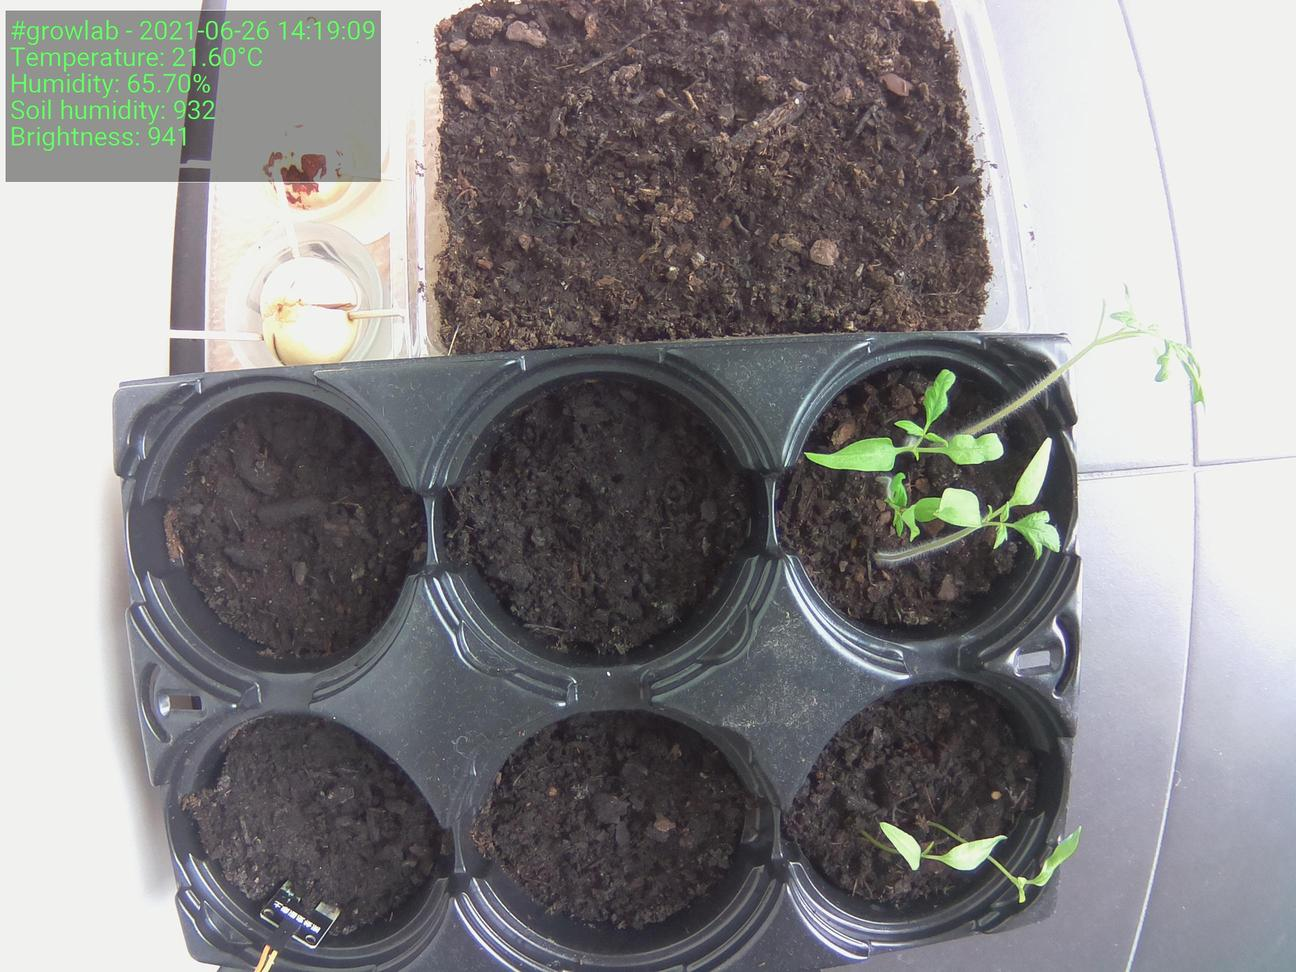
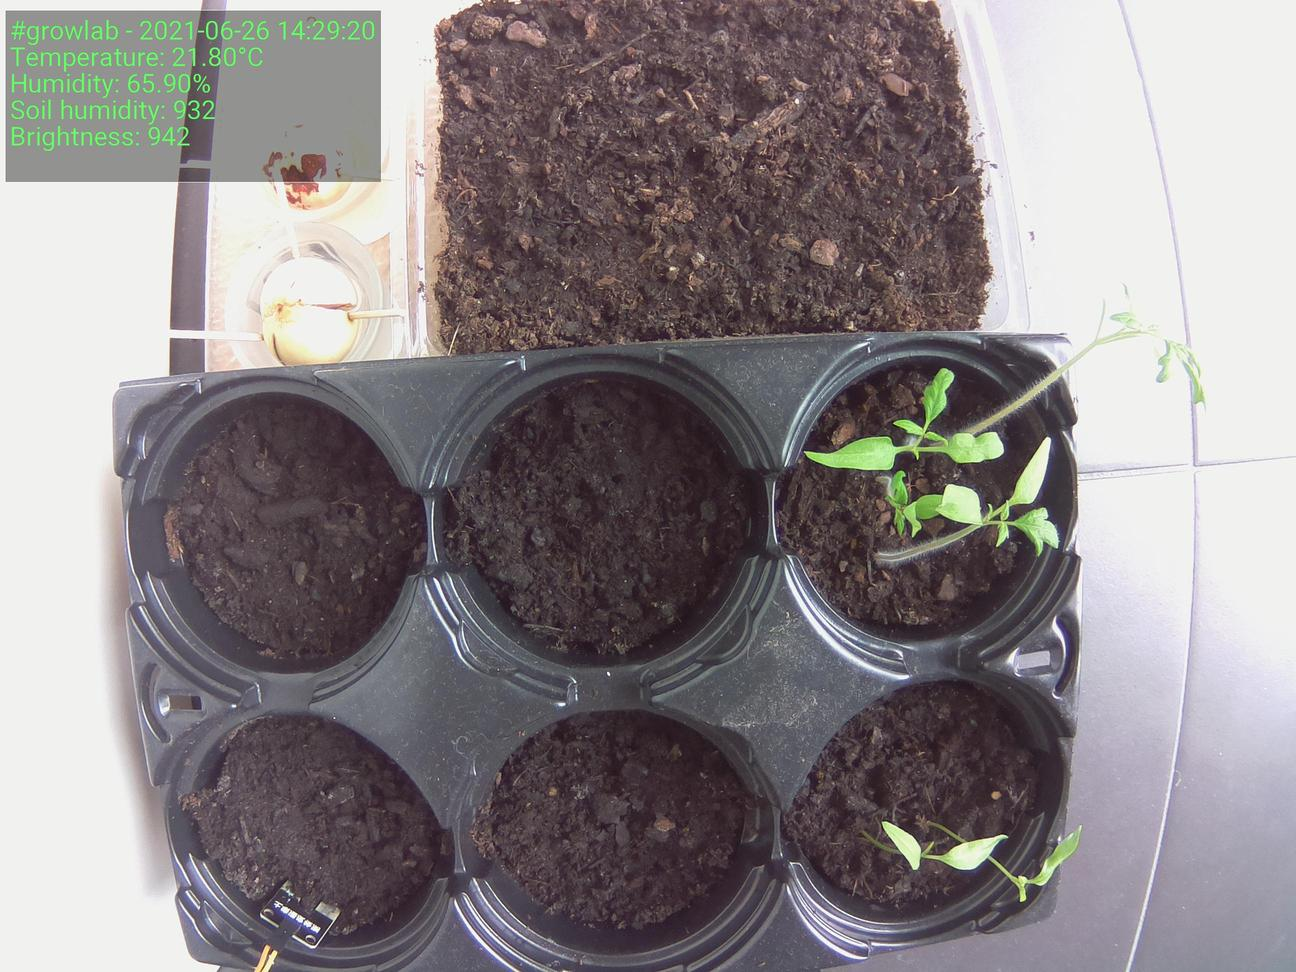
:bento: Update preview

diff --git a/index.html b/index.html
@@ -39,15 +39,15 @@
                     <tbody>
                         <tr>
                             <td>Time</td>
-                            <td>2021-06-26 14:19:09</td>
+                            <td>2021-06-26 14:29:20</td>
                         </tr>
                         <tr>
                             <td>Temperature</td>
-                            <td>21.60°C</td>
+                            <td>21.80°C</td>
                         </tr>
                         <tr>
                             <td>Humidity</td>
-                            <td>65.70%</td>
+                            <td>65.90%</td>
                         </tr>
                     </tbody>
                 </table>
@@ -55,7 +55,7 @@
 
                 <h5>Latest image</h5>
 		<div style="width: 85%;">
-	                <img class="figure-img img-fluid rounded" src="./preview.jpg?uid=1624709955.113451">
+	                <img class="figure-img img-fluid rounded" src="./preview.jpg?uid=1624710566.1201217">
 		</div>
             </div>
         </div>
